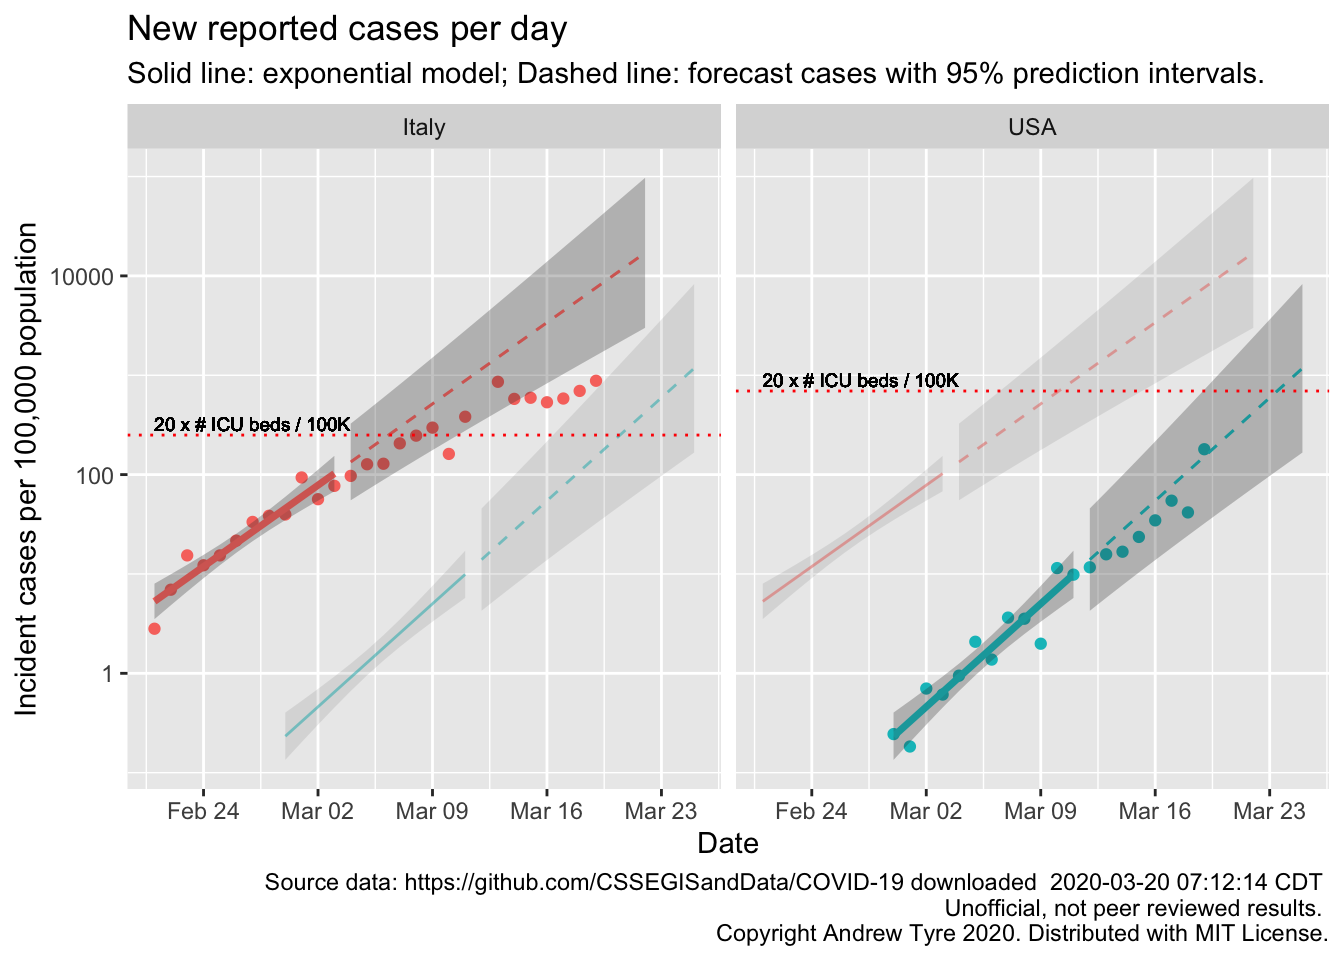
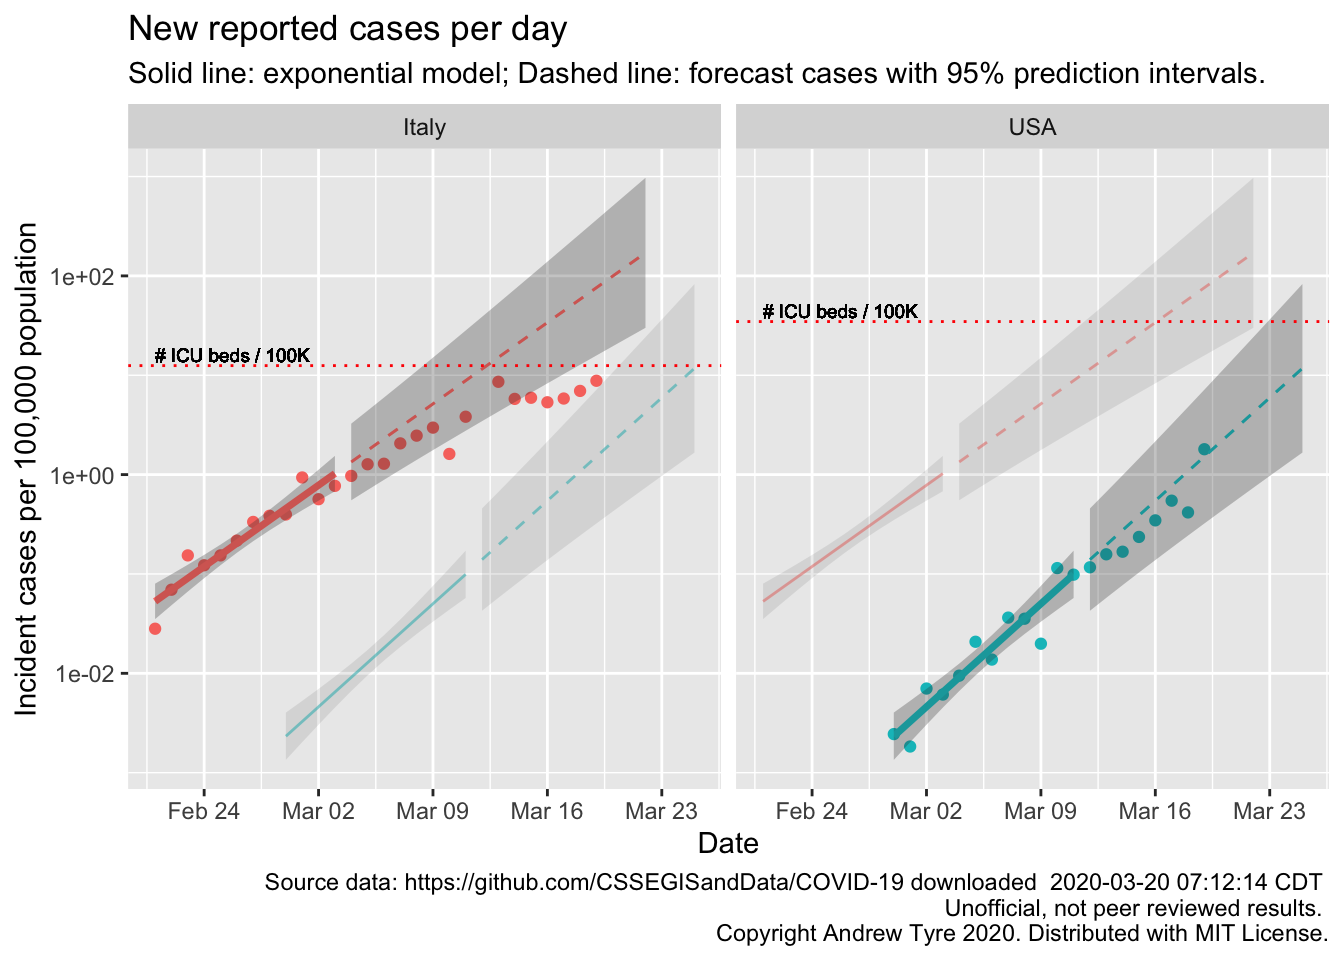
fux the fickup.

diff --git a/content/post/covid-19_in_R_VIII.html b/content/post/covid-19_in_R_VIII.html
@@ -18,8 +18,10 @@ og_image: /post/covid-19_in_r_viii_files/figure-html/featured_image-1.png
 
 
 
-<p>New cases in the USA took a big jump up yesterday. Italy continues to add more cases per day
-than 20 times their ICU capacity. US states and Canadian provinces with the largest number
+<p>EDIT: 2020-03-20 22:42 CDT – I goofed on the per capita conversion. Absolute number comparisons were all
+too high but trends are the same.</p>
+<p>New cases in the USA took a big jump up yesterday. Italy continues to add more <strong>than 3000 cases per day</strong>
+<del>than 20 times their ICU capacity</del>. US states and Canadian provinces with the largest number
 of cases so far are seeing new cases per day consistent with the exponential model.</p>
 <p><a href="/post/covid-19_and_r/">The first post in this series was just over a week ago</a>, in case you’re just joining and
 want to see the progression.</p>
@@ -35,7 +37,7 @@ and the USA. The SOLID LINES are exponential growth models that assume
 the rate of increase is <em>constant</em>. The dashed lines are predictions from that
 model. To make comparison easier, the estimated model and predictions for both countries are on both panels.
 The lines and intervals for the other country are faded out. The horizontal DOTTED LINES
-are 20 times the number of ICU beds per 100,000 population in each country. Note that
+are <del>20 times</del> the number of ICU beds per 100,000 population in each country. Note that
 the y axis is logarithmic.</p>
 <p><img src="/post/covid-19_in_R_VIII_files/figure-html/base_image-1.png" width="672" /></p>
 <p><a href="/post/covid-19_and_r_vii/">Unlike yesterday</a>, new cases in the USA took a big jump up, but are still inside the prediction interval<a href="#fn1" class="footnote-ref" id="fnref1"><sup>1</sup></a>. That jump up has multiple alternative explanations besides an increase in the
@@ -47,16 +49,18 @@ both of those things could be happening, on top of an increase in the number of 
 tests are still pending</a>.</p>
 <p>Italy’s numbers continue the linear pattern that started around March 12 – they are going along at a constant
 level, a flat line on this graph. Each day Italy adds about the same number of cases as
-the day before. This is what “Flattening the curve” looks like. Unfortunately that is still more cases per day than their health care infrastructure can
-handle. To put those numbers in perspective, the latest point from italy is
-880 cases / 100,000 population. That’s nearly 1%. New cases in Italy are nearly 1% of the population <em>per day</em>.</p>
+the day before. This is what “Flattening the curve” looks like. <del>Unfortunately that is still more cases per day than their health care infrastructure can handle. To put those numbers in perspective, the latest point from italy is 880 cases / 100,000 population. That’s nearly 1%. New cases in Italy are nearly 1% of the population <em>per day</em>.</del>
+EDIT: 2020-03-20 23:00 CDT All wrong. Sorry. Can’t do basic algebra. But in one way it makes it worse. We know that Italy has more cases than they can handle. The infrastructure maxes out well below 20 times the beds
+per 100,000 population.</p>
 <p>Below are the same calculations but focused in on 3 US states and 3 Canadian provinces<a href="#fn2" class="footnote-ref" id="fnref2"><sup>2</sup></a>.
-Each panel has the same features as the graph above.</p>
+Each panel has the same features as the graph above. EDIT: 2020-03-20 23:00 CDT I changed the
+position of the horizontal line to just be the number of ICU beds per 100K population.</p>
 <p><img src="/post/covid-19_in_R_VIII_files/figure-html/featured_image-1.png" width="672" /></p>
-<p>Washington, New York, and British Columbia are near or over the estimated per capita supply of ICU beds. The
+<p><del>Washington, New York, and British Columbia are near or over the estimated per capita supply of ICU beds.</del> The
 projections are two weeks past the end of the window I used to fit the models; those forecasts indicate that
 all six locales could be in trouble by the end of the month. If efforts to reduce transmission came too late,
-New York could be seeing 10000 cases per day by the end of the month.
+New York could be seeing <del>10000</del> <del>1000</del> A LOT of
+cases per day by the end of the month. Those points better start dropping off the exponential curve soon.
 <a href="https://www.thecut.com/2020/03/coronavirus-pandemic-what-a-nyc-doctor-is-seeing-in-the-er.html">This interview with an ER doctor in New York City</a>
 suggests they are already running out of critical equipment like ventilators and personal protective equipment.
 Masks. Because there are not enough protective masks frontline healthcare workers are being exposed
@@ -68,7 +72,7 @@ Honestly, I’ve
 been hoping the exponential model would become invalid in the USA and Canada. That would indicate
 that efforts to reduce transmission were working. But there is no sign of that yet.
 It’s also true that the forecasts here have a large amount of uncertainty – the forecast incident cases in
-Ontario for March 30 span 3 orders of magnitude, between 100 and 10000 new cases.
+Ontario for March 30 span 3 orders of magnitude, between <del>100 and 10000</del> <strong>10 and 1000</strong> new cases <strong>per 100,000 population</strong>.
 However that is the worst case, caused by the
 large day to day fluctuations in reported cases in Ontario. There is no guarantee that
 the exponential model will falsely appear to work just because of this uncertainty. Look at the plot for Italy.
@@ -97,6 +101,7 @@ They can see it coming too. Here are my lessons learned</p>
 this confirmed my belief. If I’d thought to do it, I could have predicted the
 ICU crunch in New York 2 weeks ago.</p></li>
 <li><p>Open source science can work! The open <a href="https://github.com/CSSEGISandData/COVID-19">John Hopkins University data aggregation</a> is now the de facto go to for everyone, even the US government<a href="#fn3" class="footnote-ref" id="fnref3"><sup>3</sup></a>.</p></li>
+<li><p><strong>Doing science in public without a safety net is risky?</strong></p></li>
 </ul>
 <p>If anyone wants an up to date figure for some state/province/country shoot me an email and I’ll see what
 I can do. Stay safe everyone, wash your hands, go for a walk.</p>
